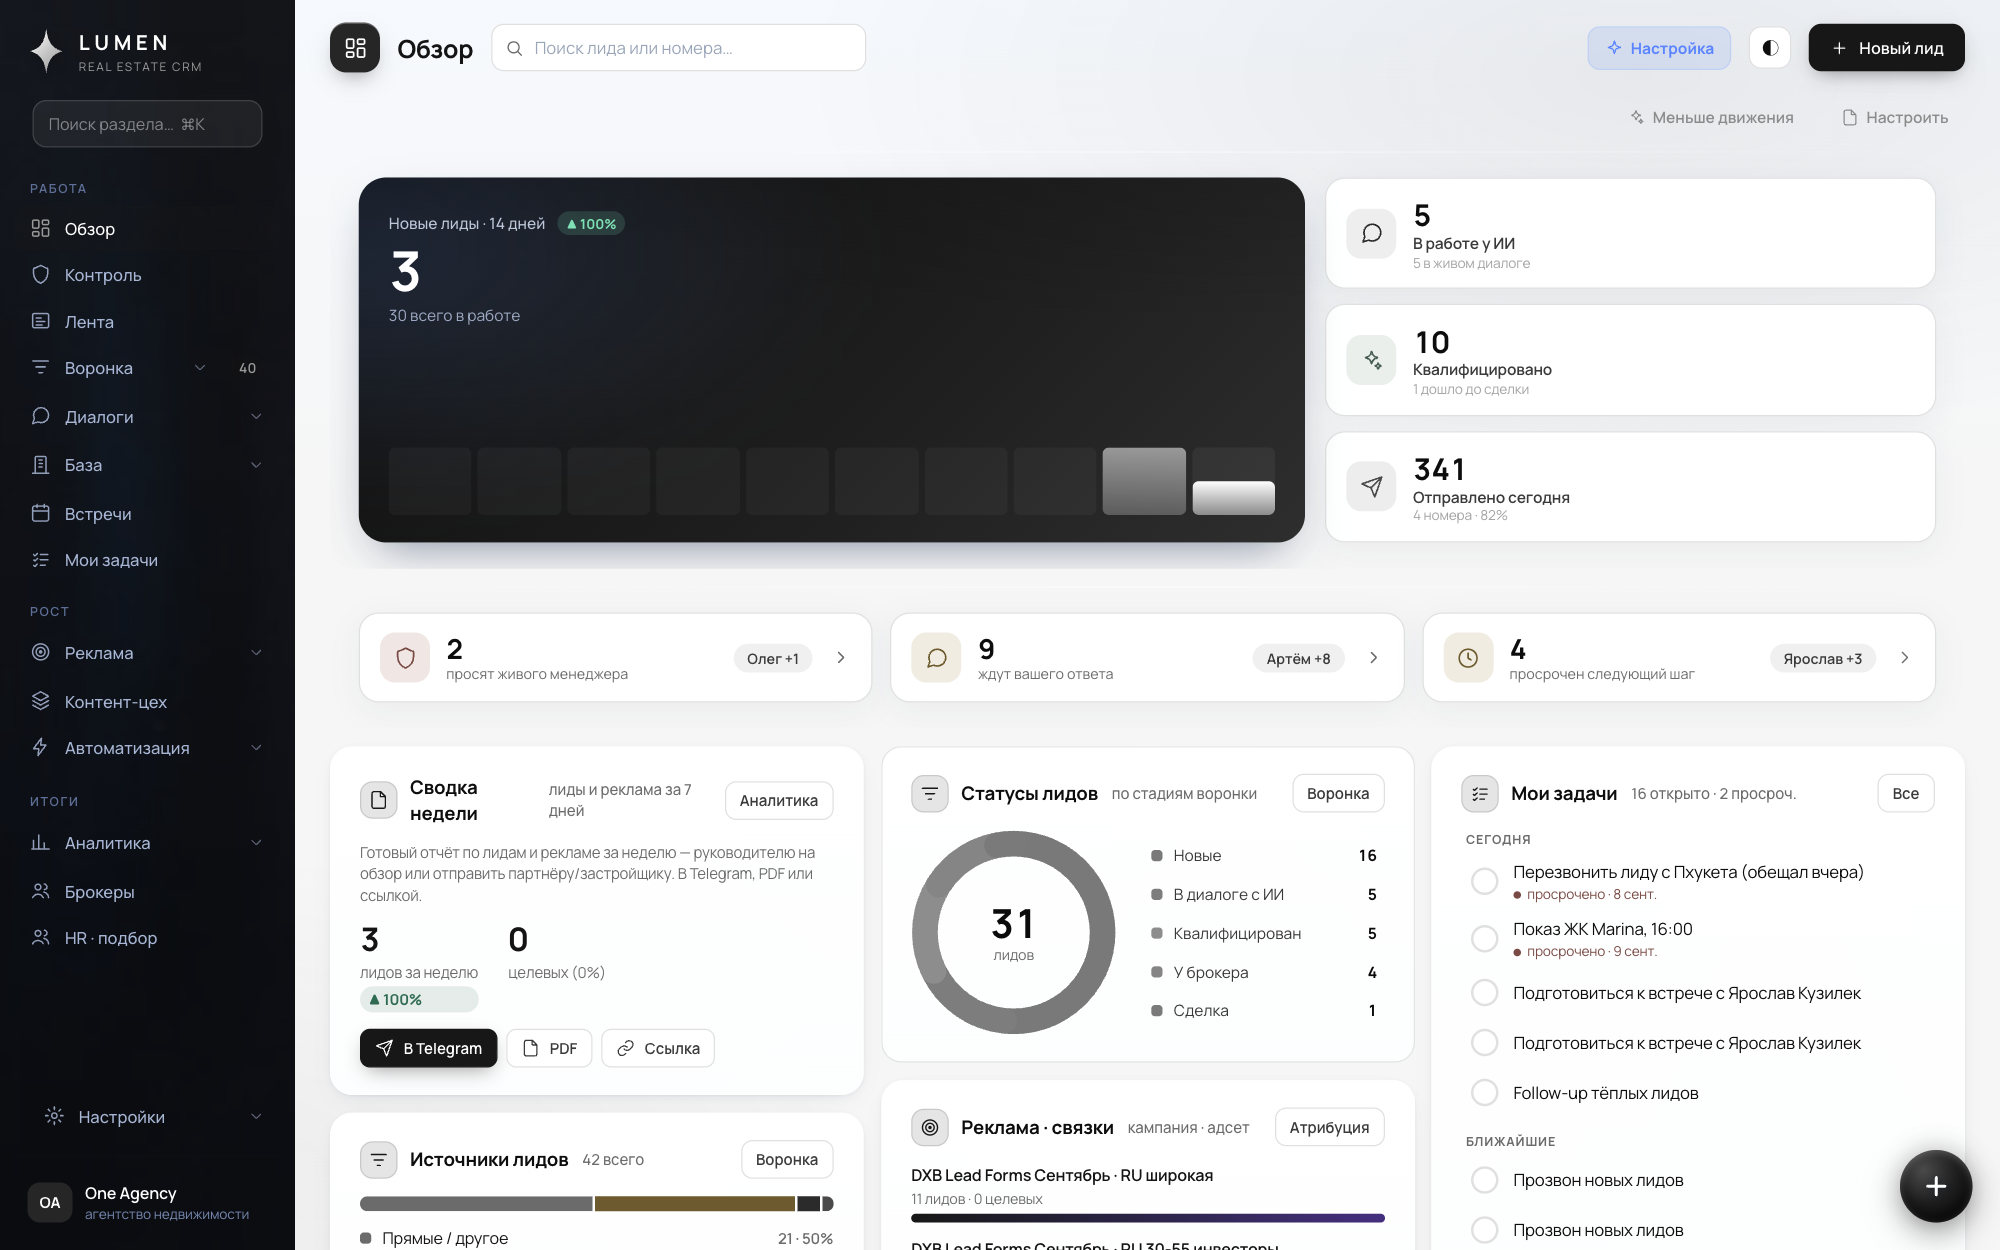
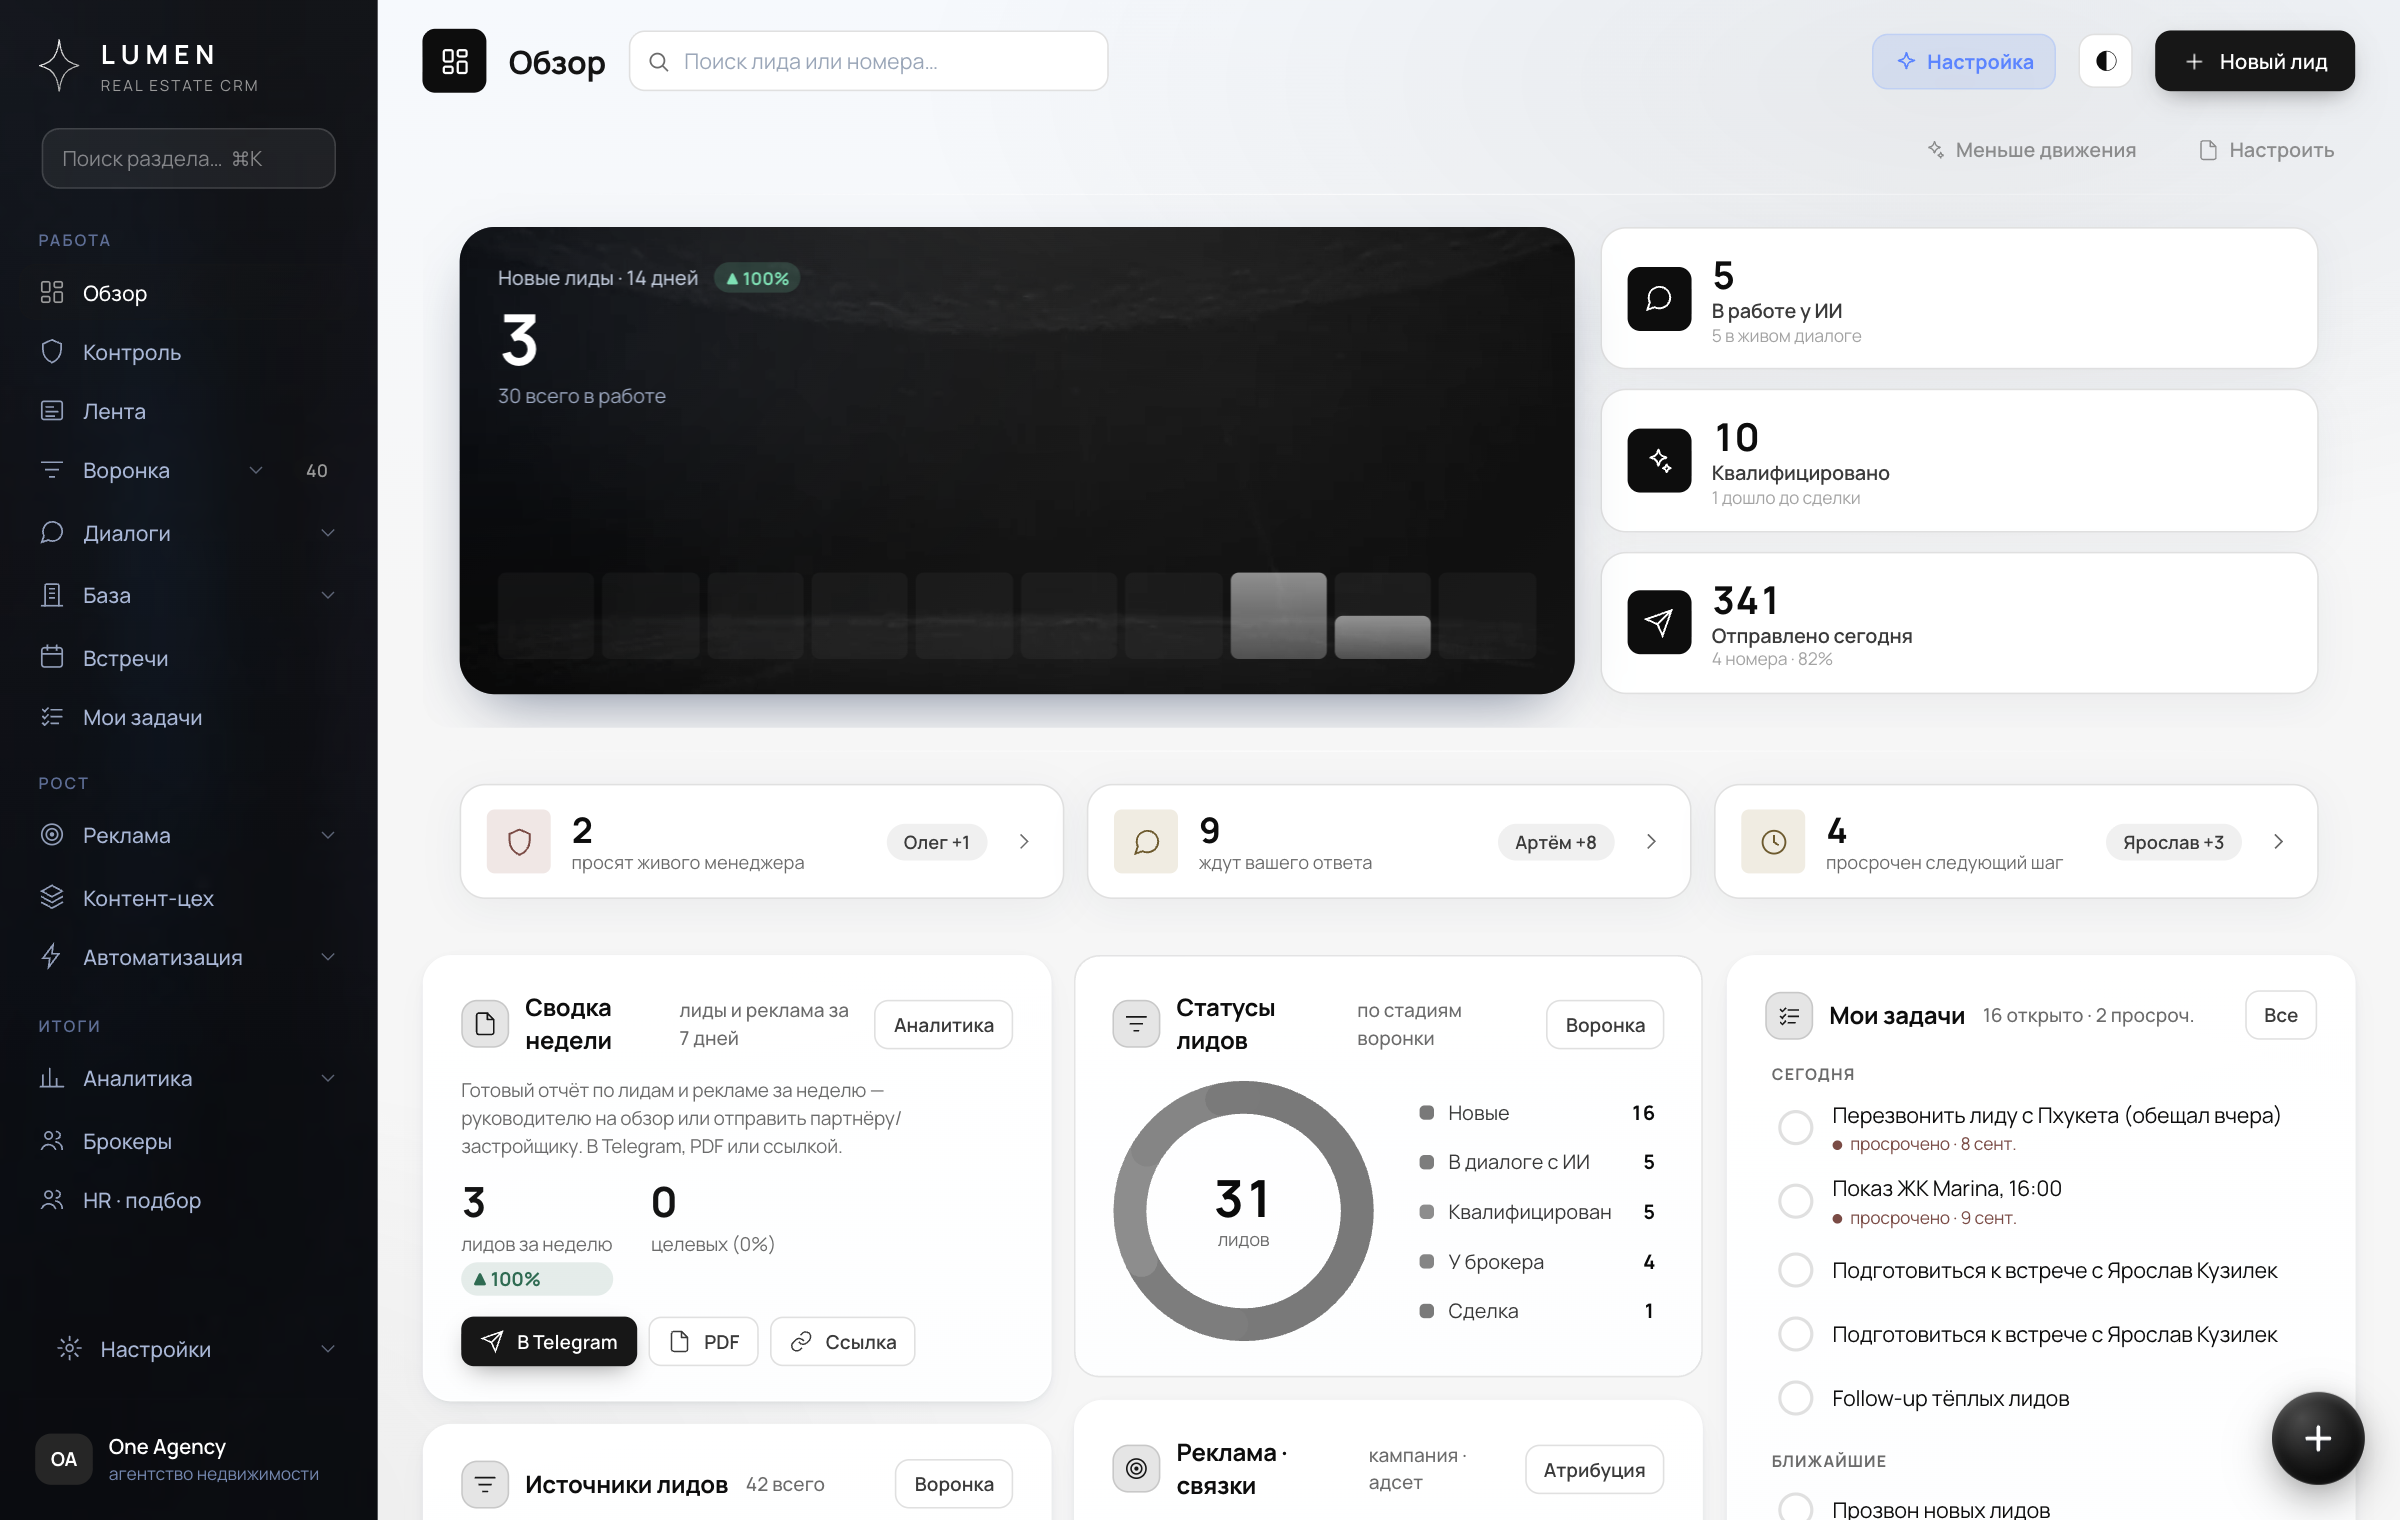
feat(land): пересъёмка экранов CRM в новой айдентике (mono) + Telegram-мессенджер в визуал
- Переснял в теме mono (айдентика лендинга): Обзор (theme-mono), Воронка, Карточка лида, Подборки, Аналитика — через puppeteer (scripts/cap_lux.mjs). Пути те же → лендинг подхватил.
- Снял Telegram мини-апп (scripts/cap_tg.mjs: мок fetch + Telegram-stub, тёмная тема): список чатов + диалог с «● ИИ ведёт».
- Добавил на лендинг блок «Мессенджер брокера»: телефон в рамке с Telegram-диалогом + текст (личный TG, ИИ подхватывает, база в системе).
Проверено: 6/6 картинок отдаются 200 и грузятся, 0 оверфлоу, консоль чистая.

diff --git a/public/land.html b/public/land.html
@@ -165,6 +165,19 @@
   .shot .cap span{font-size:12px;color:#a7a6a3}
   @media(max-width:760px){.screens{grid-template-columns:1fr}.shot.wide{grid-column:span 1}}
 
+  /* Telegram-мессенджер брокера (телефон) */
+  .tgshow{display:grid;grid-template-columns:1fr auto;gap:clamp(30px,5vw,72px);align-items:center;margin-top:clamp(52px,7vw,92px)}
+  .tgshow .eyebrow{margin-bottom:20px}
+  .tgshow h3{font-family:var(--serif);font-weight:300;font-size:clamp(26px,3.4vw,42px);line-height:1.08;letter-spacing:-.01em}
+  .tgshow p{color:var(--ink2);font-weight:300;line-height:1.6;font-size:15px;margin-top:16px;max-width:44ch}
+  .tgshow .tgb{margin-top:20px;display:grid;gap:11px}
+  .tgshow .tgb div{display:flex;gap:12px;align-items:flex-start;font-size:14px;color:var(--ink2);font-weight:300}
+  .tgshow .tgb svg{width:16px;height:16px;flex:0 0 16px;margin-top:2px;color:var(--ink)}
+  .phone{width:clamp(228px,25vw,290px);border-radius:40px;padding:11px;background:linear-gradient(165deg,#1b1b1e,#0a0a0b);border:1px solid rgba(0,0,0,.18);box-shadow:0 44px 90px rgba(20,19,17,.28),0 8px 24px rgba(20,19,17,.14);position:relative;justify-self:center}
+  .phone::before{content:"";position:absolute;z-index:2;top:20px;left:50%;transform:translateX(-50%);width:34%;height:5px;border-radius:4px;background:rgba(255,255,255,.16)}
+  .phone img{width:100%;display:block;border-radius:31px}
+  @media(max-width:760px){.tgshow{grid-template-columns:1fr;text-align:center}.tgshow p,.tgshow .tgb{margin-inline:auto}.tgshow .tgb div{text-align:left}}
+
   /* KILLER FEATURES — «вкусняшки» */
   .feats{display:grid;grid-template-columns:repeat(3,1fr);gap:1px;background:var(--line2);border:1px solid var(--line2);margin-top:50px}
   .feat{background:var(--cell);padding:clamp(26px,2.6vw,38px);position:relative;transition:background .5s var(--ease),transform .6s var(--ease)}
@@ -435,6 +448,20 @@
       <div class="shot d2" data-r><img src="/assets/site/cap-leadcard.png" alt="Карточка лида" loading="lazy"><div class="cap"><b>Карточка лида</b><span>переписка, психо-портрет, история</span></div></div>
       <div class="shot d1" data-r><img src="/assets/site/cap-collections.png" alt="Подборки" loading="lazy"><div class="cap"><b>Подборки</b><span>живые презентации объектов</span></div></div>
       <div class="shot d2" data-r><img src="/assets/site/cap-analytics.png" alt="Аналитика" loading="lazy"><div class="cap"><b>Аналитика</b><span>деньги и эффективность в цифрах</span></div></div>
+    </div>
+
+    <div class="tgshow" data-r>
+      <div>
+        <span class="eyebrow">Мессенджер брокера</span>
+        <h3>Telegram, из которого <em>не уводят базу</em></h3>
+        <p>Брокер отвечает клиенту прямо из личного Telegram — привычно и быстро. Когда он занят, диалог ведёт ИИ. А вся переписка, медиа и история остаются в системе агентства.</p>
+        <div class="tgb">
+          <div><svg viewBox="0 0 24 24" fill="none" stroke="currentColor" stroke-width="2" stroke-linecap="round" stroke-linejoin="round"><path d="M20 6L9 17l-5-5"/></svg>Личный Telegram брокера — но база остаётся в системе</div>
+          <div><svg viewBox="0 0 24 24" fill="none" stroke="currentColor" stroke-width="2" stroke-linecap="round" stroke-linejoin="round"><path d="M20 6L9 17l-5-5"/></svg>ИИ подхватывает диалог и подсказывает ответ на возражение</div>
+          <div><svg viewBox="0 0 24 24" fill="none" stroke="currentColor" stroke-width="2" stroke-linecap="round" stroke-linejoin="round"><path d="M20 6L9 17l-5-5"/></svg>Звонок, голосовые, карточка лида — прямо в чате</div>
+        </div>
+      </div>
+      <div class="phone"><img src="/assets/site/cap-tg-chat.png" alt="Мессенджер Lumen в Telegram — ИИ ведёт диалог" loading="lazy"></div>
     </div>
   </div>
 </section>
